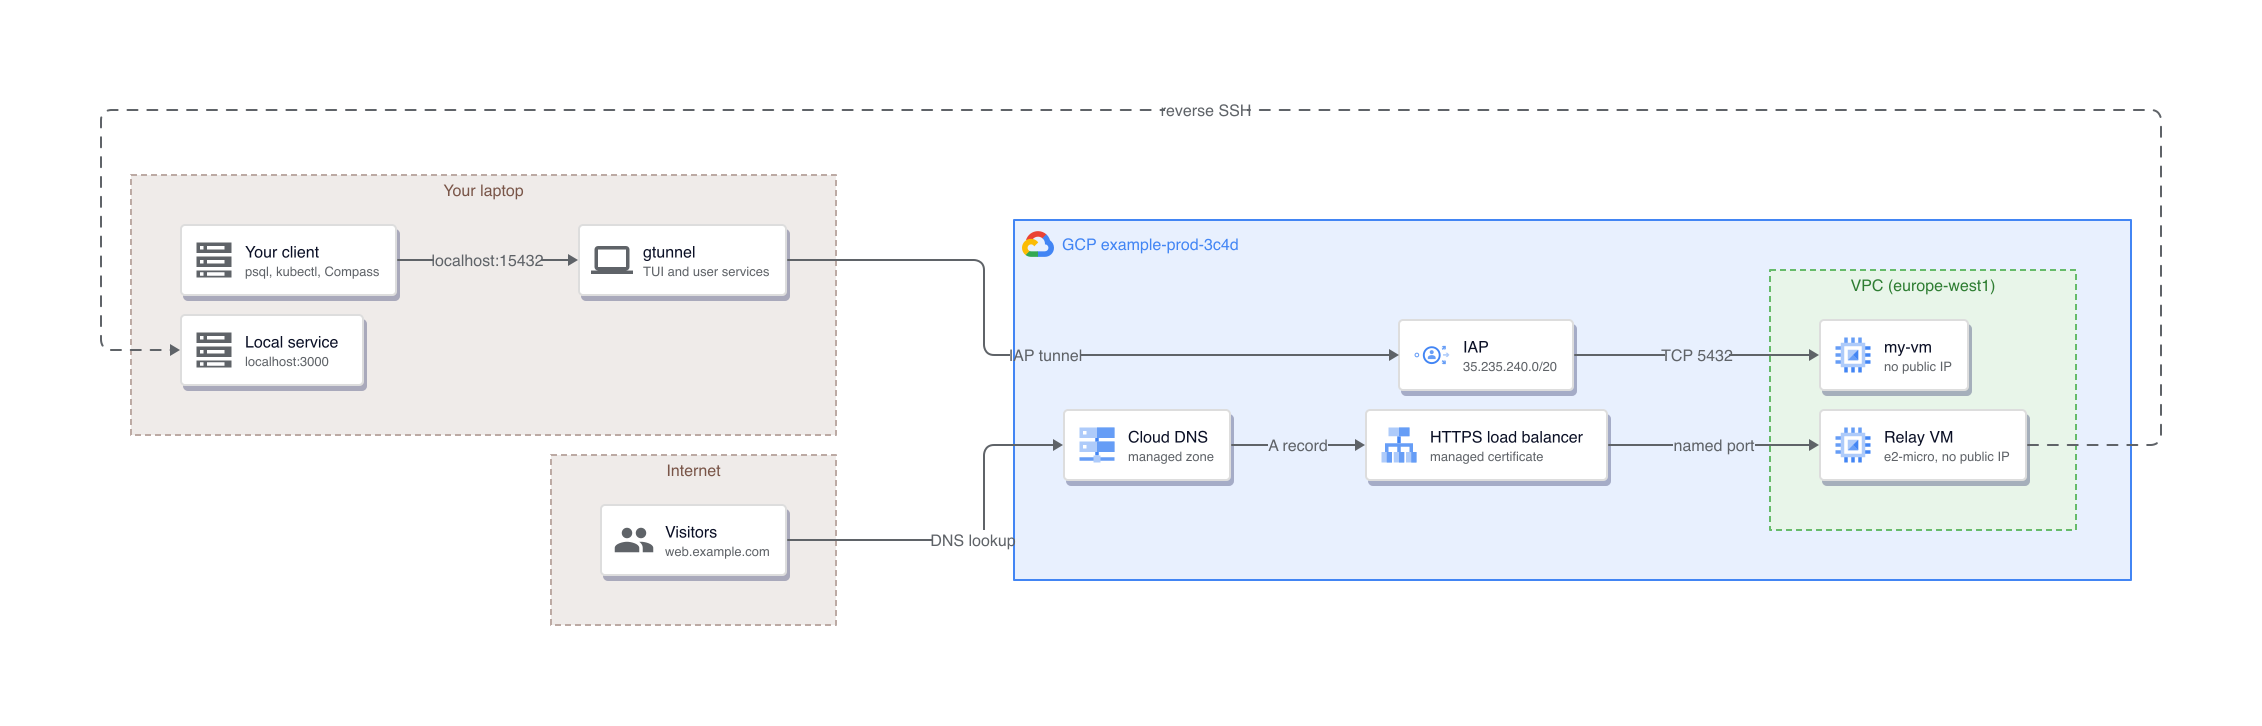
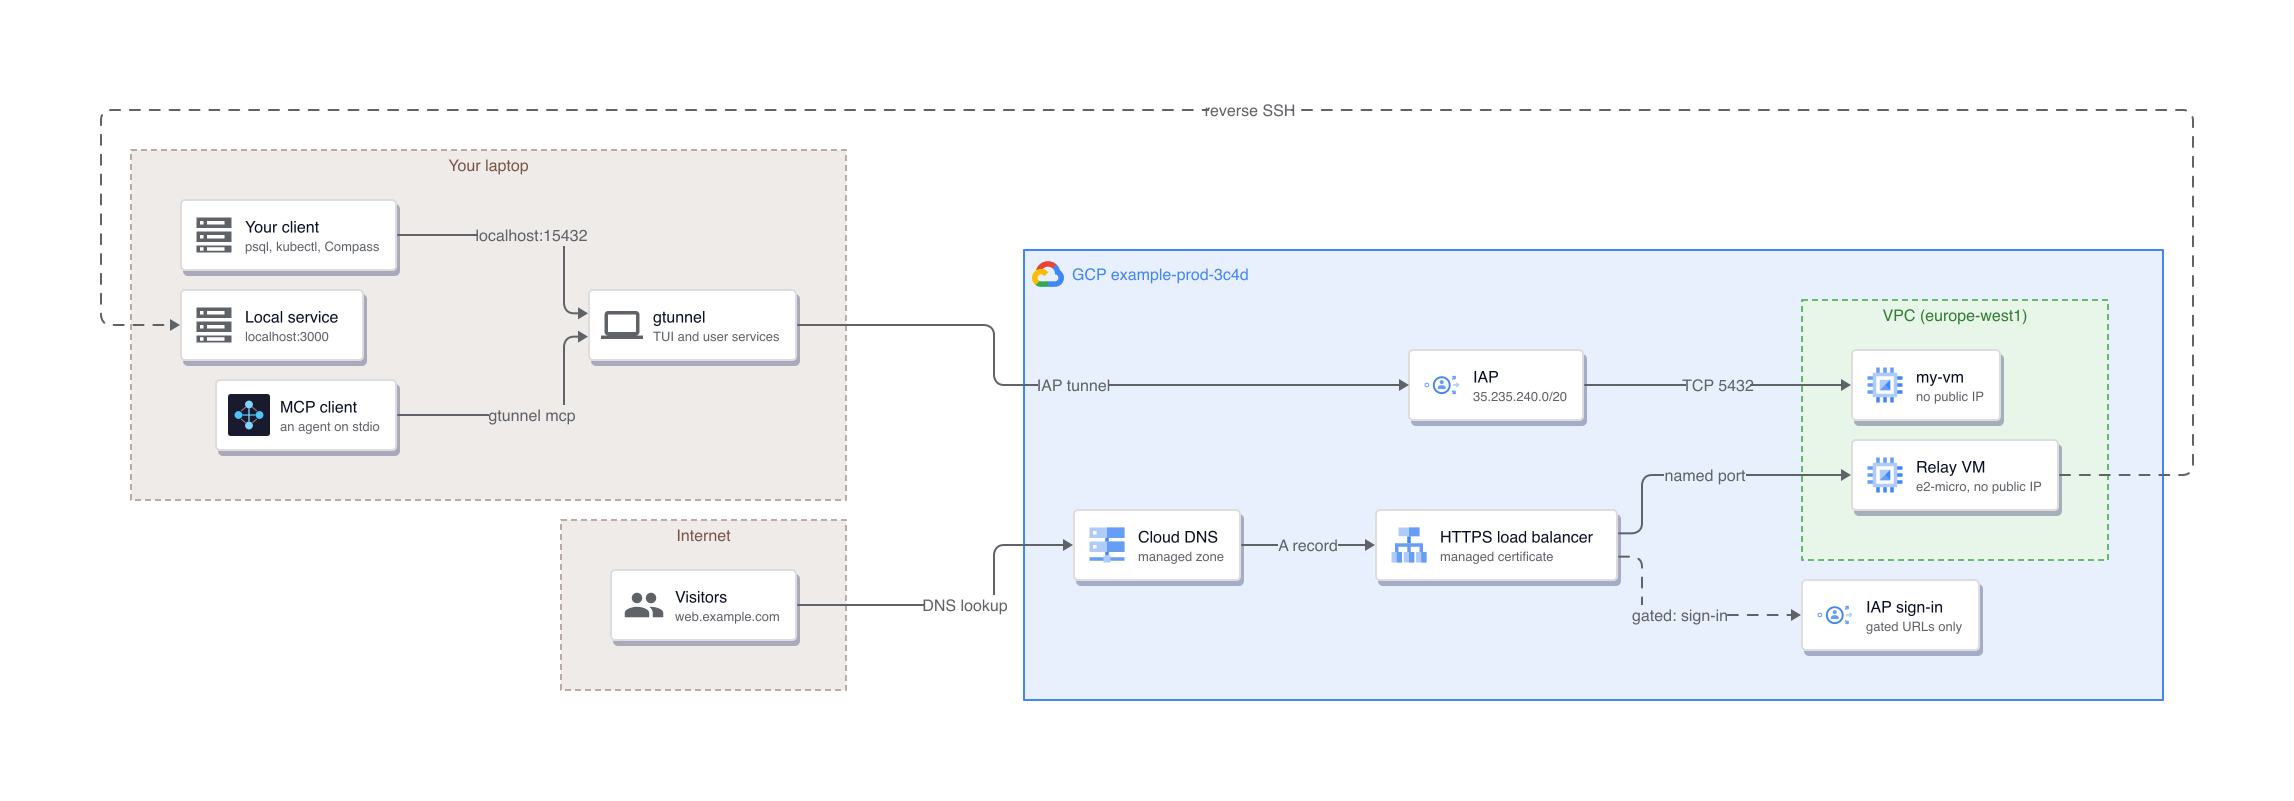
docs: refresh the architecture diagrams and README features (#78)
Closes #65

diff --git a/README.md b/README.md
@@ -36,7 +36,7 @@ one is actually carrying traffic.
 Everything in the table below ships in the current version. This README has no roadmap
 section because it describes only what the binary already does.
 
-![gtunnel topology: a private port inward through IAP, a public URL outward through a relay VM](docs/images/architecture/gtunnel-overview.png)
+![gtunnel topology: a private port inward through IAP, a public URL outward through a relay VM with optional IAP sign-in, and the TUI or an MCP client driving gtunnel](docs/images/architecture/gtunnel-overview.png)
 
 ## Features
 
@@ -48,6 +48,10 @@ section because it describes only what the binary already does.
 | TUI dashboard | Live status, latency, connection counts, load-balancer traffic and per-tunnel logs |
 | Managed services | launchd on macOS, systemd `--user` on Linux. Restart on failure, optional auto-start at login |
 | Multiple accounts | One gcloud configuration, project and zone per account; `;` cycles them in the TUI |
+| Gated public URLs | `expose --private` turns on IAP for the tunnel's backend, so a visitor signs in with Google first. Listed as `gated` |
+| MCP server and agent skill | `gtunnel mcp` is a stdio MCP server with 10 tools and 2 resources; `.agents/skills/gtunnel/SKILL.md` guides an agent through the CLI |
+| `--json` output | `list`, `doctor` and `account list` print machine-readable JSON |
+| Self-update | `gtunnel update` replaces the binary with the latest release; `--check` only reports. A Homebrew install is pointed at `brew upgrade` |
 
 [docs/architecture.md](docs/architecture.md) has the topology for both modes, the jump and
 service-lifecycle diagrams, the account model, and every resource name.
@@ -130,7 +134,7 @@ psql -h localhost -p 15432
 ```
 
 <p align="center">
-  <img src="docs/demo-access.gif" alt="gtunnel add, list, start, stop and delete" width="720">
+  <img src="docs/demo-access.gif" alt="gtunnel add, list, start, stop and delete, and the error for a mistyped name" width="720">
 </p>
 
 ### A public URL to a local service

diff --git a/docs/images/architecture/gtunnel-overview.md b/docs/images/architecture/gtunnel-overview.md
@@ -1,10 +1,10 @@
 ---
 title: "gtunnel topology"
 subtitle: "Both modes: a private port inward, a public URL outward"
-date: "2026-10-24"
-team: "Platform Engineering"
+date: "2026-10-27"
+team: "gtunnel"
 audience: "Engineering"
-classification: "Internal"
+classification: "Public"
 tags: [architecture, gcp]
 ---
 
@@ -18,19 +18,23 @@ nodes:
 - id: cli, label: "gtunnel", subtitle: "TUI and user services", icon: laptop, parent: local
 - id: client, label: "Your client", subtitle: "psql, kubectl, Compass", icon: server, parent: local
 - id: svc, label: "Local service", subtitle: "localhost:3000", icon: server, parent: local
+- id: agent, label: "MCP client", subtitle: "an agent on stdio", icon: mcp, parent: local
 - id: gcp, label: "GCP example-prod-3c4d", style: gcp, type: container
 - id: iap, label: "IAP", subtitle: "35.235.240.0/20", icon: iap, parent: gcp
 - id: dns, label: "Cloud DNS", subtitle: "managed zone", icon: dns, parent: gcp
 - id: lb, label: "HTTPS load balancer", subtitle: "managed certificate", icon: lb, parent: gcp
+- id: gate, label: "IAP sign-in", subtitle: "gated URLs only", icon: iap, parent: gcp
 - id: vpc, label: "VPC (europe-west1)", style: vpc, type: container, parent: gcp
 - id: vm, label: "my-vm", subtitle: "no public IP", icon: compute, parent: vpc
 - id: relay, label: "Relay VM", subtitle: "e2-micro, no public IP", icon: compute, parent: vpc
 edges:
+- from: agent, to: cli, label: "gtunnel mcp"
 - from: client, to: cli, label: "localhost:15432"
 - from: cli, to: iap, label: "IAP tunnel"
 - from: iap, to: vm, label: "TCP 5432"
 - from: visitor, to: dns, label: "DNS lookup"
 - from: dns, to: lb, label: "A record"
+- from: lb, to: gate, label: "gated: sign-in", style: dashed
 - from: lb, to: relay, label: "named port"
 - from: relay, to: svc, label: "reverse SSH", style: dashed
 :::

diff --git a/docs/architecture.md b/docs/architecture.md
@@ -62,7 +62,7 @@ open against a host that is gone.
 A relay VM holds a reverse SSH tunnel back to your laptop. A global HTTPS load balancer
 terminates TLS and sends each hostname to the relay port that belongs to that tunnel.
 
-![Public mode: a visitor reaching a global HTTPS load balancer, which forwards to a relay VM holding a reverse SSH tunnel back to the laptop](images/architecture/gtunnel-public-mode.png)
+![Public mode: a visitor reaching a global HTTPS load balancer, which forwards to a relay VM holding a reverse SSH tunnel back to the laptop, with IAP sign-in in front for a gated tunnel](images/architecture/gtunnel-public-mode.png)
 
 The load balancer is drawn as one card. Behind it a request crosses five resources, which
 [What belongs to whom](#what-belongs-to-whom) below lists in full: the forwarding rule
@@ -71,6 +71,10 @@ map `gt-<acct>-urlmap` carrying one host rule per tunnel, the per-tunnel backend
 `gt-<acct>-<tunnel>`, and the instance group `gt-<acct>-ig` whose named port `gt-<tunnel>`
 selects the relay port. The Cloud DNS A record `<tunnel>.<domain>` resolves to the global
 address `gt-<acct>-ip`.
+
+A gated tunnel, `expose --private`, also turns on IAP for its backend service, so a visitor
+signs in with Google before a request reaches the relay. `list` and the TUI show its mode
+as `gated` rather than `public`.
 
 The tunnel process runs:
 

diff --git a/docs/images/architecture/gtunnel-public-mode.md b/docs/images/architecture/gtunnel-public-mode.md
@@ -1,10 +1,10 @@
 ---
 title: "Public mode"
 subtitle: "A global HTTPS load balancer in front of a relay VM"
-date: "2026-10-24"
-team: "Platform Engineering"
+date: "2026-10-27"
+team: "gtunnel"
 audience: "Engineering"
-classification: "Internal"
+classification: "Public"
 tags: [architecture, gcp]
 ---
 
@@ -17,6 +17,7 @@ nodes:
 - id: gcp, label: "GCP example-prod-3c4d", style: gcp, type: container
 - id: dns, label: "Cloud DNS", subtitle: "A record to gt-prod-ip", icon: dns, parent: gcp
 - id: lb, label: "Global HTTPS LB", subtitle: "managed cert, host rule", icon: lb, parent: gcp
+- id: gate, label: "IAP sign-in", subtitle: "gated: expose --private", icon: iap, parent: gcp
 - id: vpc, label: "VPC (europe-west1)", style: vpc, type: container, parent: gcp
 - id: relay, label: "Relay VM", subtitle: "e2-micro, no public IP", icon: compute, parent: vpc
 - id: local, label: "Your laptop", style: external, type: container
@@ -24,6 +25,7 @@ nodes:
 edges:
 - from: visitor, to: lb, label: "HTTPS request"
 - from: dns, to: lb, label: "A record", style: dashed
+- from: lb, to: gate, label: "gated: sign-in", style: dashed
 - from: lb, to: relay, label: "backend, port 30001"
 - from: relay, to: svc, label: "reverse SSH", style: dashed
 :::

diff --git a/docs/images/architecture/gtunnel-access-jump.md b/docs/images/architecture/gtunnel-access-jump.md
@@ -1,10 +1,10 @@
 ---
 title: "Access and jump tunnels"
 subtitle: "One hop to a VM, two hops to a host only the VM can reach"
-date: "2026-10-24"
-team: "Platform Engineering"
+date: "2026-10-27"
+team: "gtunnel"
 audience: "Engineering"
-classification: "Internal"
+classification: "Public"
 tags: [architecture, gcp]
 ---
 
